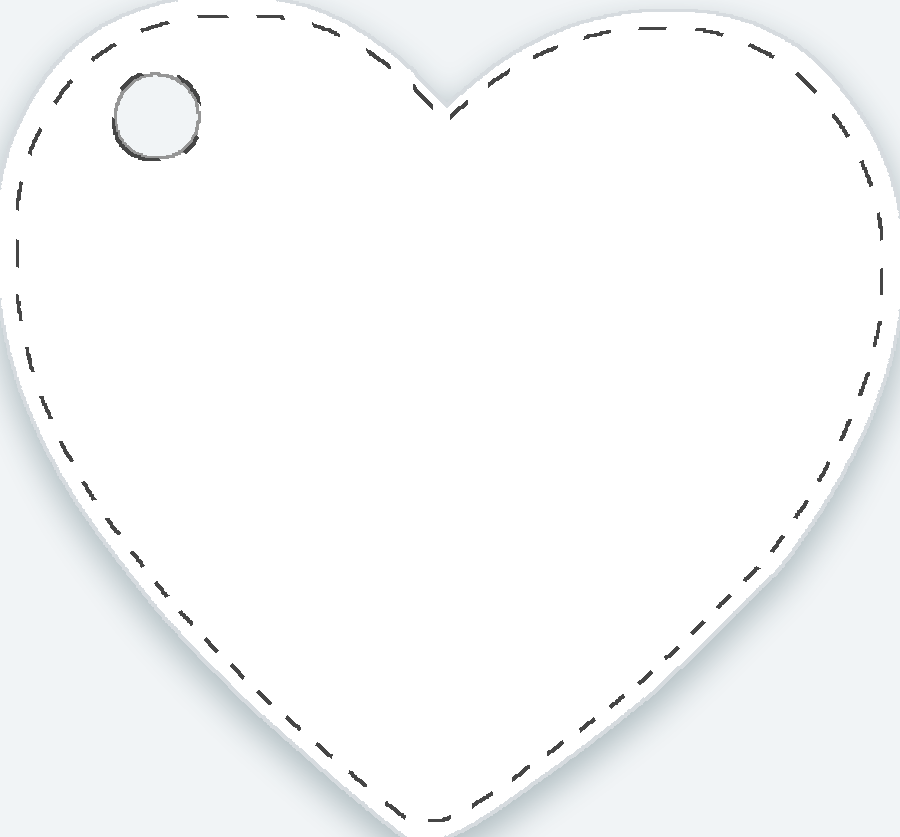
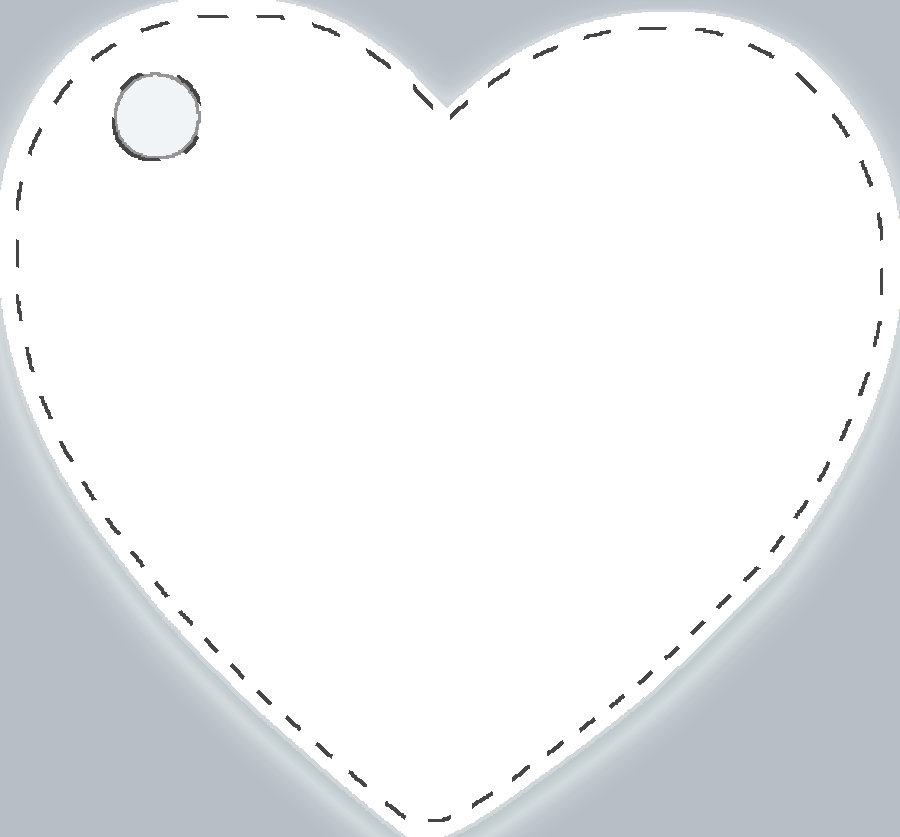
Anteprima: zoom contenuto, sfondo grigio, puzzle A4/A3 e tele rifinite
Anteprima del configuratore
- Lo zoom non fa più uscire il prodotto sopra pannelli e pulsanti:
  l'area dell'anteprima taglia quello che sborda (anche su computer).
- Sfondo sempre grigio medio (--preview-bg), anche su smartphone, così
  le sagome bianche (calamita, cuori, portachiavi) si vedono.
- Maschere delle sagome ricolorate con lo stesso grigio; per cuori e
  portachiavi il bordo sfuma senza aloni chiari.
- Le immagini delle sagome hanno ?v= per non usare quelle vecchie in
  cache; le miniature del carrello delle sagome hanno lo stesso grigio.

Puzzle
- A4 e A3 hanno ciascuno la propria sagoma, presa dalle foto
  "puzzle A4 42 tasselli" e "puzzle A3 130 tasselli", con la cornice
  intorno all'area di stampa come nella home.
- Numero di tasselli nei testi (configuratore, mobile, home).

Tele
- Ritaglio rifatto con bordi lisci (curva per ogni lato) e stampa
  d'esempio fino al bordo: niente più righe storte sui lati.

diff --git a/script.js b/script.js
@@ -1518,12 +1518,13 @@ Object.assign(products, {
         price: null // DA DEFINIRE
     },
 
-    /* PUZZLE: le linee di taglio sono nella sagoma, sopra il disegno */
+    /* PUZZLE: ogni formato ha la sua sagoma (foto del puzzle bianco):
+       linee di taglio sopra il disegno, cornice intorno all’area di stampa */
 
     "puzzle-a4": {
         title: "Puzzle A4",
         name: "Puzzle personalizzato",
-        dimensions: "Formato: A4, 21x29,7 cm",
+        dimensions: "Formato: A4, 21x29,7 cm, 42 tasselli grandi",
         print: "Area di stampa: 21x29,7 cm",
         printInfo: "Area stampabile 21x29,7 cm",
         printCm: { width: 21, height: 29.7 },
@@ -1531,14 +1532,14 @@ Object.assign(products, {
         orientable: true,
         marginNote: "none",
         layout: "puzzle",
-        shape: "puzzle",
+        shape: "puzzle-a4",
         price: null // DA DEFINIRE
     },
 
     "puzzle-a3": {
         title: "Puzzle A3",
         name: "Puzzle personalizzato",
-        dimensions: "Formato: A3, 29,7x42 cm",
+        dimensions: "Formato: A3, 29,7x42 cm, 130 tasselli grandi",
         print: "Area di stampa: 29,7x42 cm",
         printInfo: "Area stampabile 29,7x42 cm",
         printCm: { width: 29.7, height: 42 },
@@ -1546,7 +1547,7 @@ Object.assign(products, {
         orientable: true,
         marginNote: "none",
         layout: "puzzle",
-        shape: "puzzle",
+        shape: "puzzle-a3",
         price: null // DA DEFINIRE
     },
 
@@ -6293,10 +6294,16 @@ const GENERIC_PREVIEW_PADDING = {
     tile: 0.025,
     mousepad: 0.02,
     slate: 0.12,  // uguale al margine delle immagini assets/products/slate-*-body.png
-    puzzle: 0.03, // uguale al margine delle immagini assets/products/puzzle*-body.png
+    puzzle: 0.05, // uguale al margine delle immagini assets/products/puzzle-*-body.png (cornice)
     magnet: 0.06, // uguale al margine delle immagini assets/products/magnet-*-body.png
     "keychain-mdf": 0.12 // uguale al margine delle immagini keychain-*-body.png
 };
+
+/*
+    Versione delle immagini delle sagome (assets/products): va cambiata
+    quando si rifanno, così i browser non usano quelle vecchie in cache.
+*/
+const SHAPE_ASSETS_VERSION = "2";
 
 /* Margine dell'immagine dell'anello (keychain-*-ring.png) rispetto all'area di stampa */
 const KEYCHAIN_RING_PAD = 0.75;
@@ -6377,10 +6384,10 @@ function applyGenericProductPreview(product) {
                 : product.shape;
 
         productPreview.style.backgroundImage =
-            `url("${getAssetUrl(`assets/products/${shapeName}-body.png`)}")`;
+            `url("${getAssetUrl(`assets/products/${shapeName}-body.png?v=${SHAPE_ASSETS_VERSION}`)}")`;
 
         printShapeMask.style.backgroundImage =
-            `url("${getAssetUrl(`assets/products/${shapeName}-mask.png`)}")`;
+            `url("${getAssetUrl(`assets/products/${shapeName}-mask.png?v=${SHAPE_ASSETS_VERSION}`)}")`;
 
         /* Portachiavi: anello e fascetta in un livello sopra, più grande */
         if (product.layout === "keychain-mdf") {
@@ -6390,7 +6397,7 @@ function applyGenericProductPreview(product) {
 
             productPreview.style.setProperty(
                 "--ring-image",
-                `url("${getAssetUrl(`assets/products/${shapeName}-ring.png`)}")`
+                `url("${getAssetUrl(`assets/products/${shapeName}-ring.png?v=${SHAPE_ASSETS_VERSION}`)}")`
             );
 
             productPreview.style.setProperty(
@@ -10357,12 +10364,25 @@ async function captureCurrentProductPreview() {
         );
 
 
+        /*
+            Sagome (cuori, portachiavi, ardesie...): fuori dalla forma
+            le maschere hanno il grigio dell'anteprima, quindi anche il
+            fondo della miniatura è grigio, senza riquadri chiari.
+        */
+        const thumbnailBackground =
+            products[currentProduct] &&
+            products[currentProduct].shape
+                ? getComputedStyle(document.documentElement)
+                    .getPropertyValue("--preview-bg")
+                    .trim() || null
+                : null;
+
         const canvas =
             await html2canvas(
                 productPreview,
                 {
                     backgroundColor:
-                        null,
+                        thumbnailBackground,
 
                     scale: 1,
 

diff --git a/style.css b/style.css
@@ -207,7 +207,7 @@ input[type="file"] {
     display: flex;
     justify-content: center;
     align-items: center;
-    background: #eeeeee;
+    background: var(--preview-bg);
     border-radius: 14px;
     padding: 30px;
     position: relative;
@@ -2274,7 +2274,7 @@ nav a {
 
     /* Pagina editor */
     body {
-        background: #eeeeee;
+        background: var(--preview-bg);
     }
 
 
@@ -2300,7 +2300,7 @@ nav a {
         border-radius: 0;
         box-shadow: none;
 
-        background: #eeeeee;
+        background: var(--preview-bg);
 
         position: relative;
         top: auto;
@@ -2327,7 +2327,7 @@ nav a {
 
         border-radius: 0;
 
-        background: #eeeeee;
+        background: var(--preview-bg);
 
         display: flex;
         align-items: center;
@@ -5024,6 +5024,10 @@ nav a {
    ===================================================================== */
 
 :root {
+    /* Sfondo dell’anteprima: grigio medio, uguale al fondo delle sagome
+       (assets/products/*-mask.png), così i prodotti bianchi si vedono */
+    --preview-bg: #b8bec6;
+
     /* Colori del marchio SubliMaMi (presi dal logo) */
     --brand: #00b0c0;            /* turchese logo: decorazioni, bordi attivi */
     --brand-strong: #00808e;     /* turchese scuro: testo e pulsanti (contrasto AA) */
@@ -5748,10 +5752,10 @@ textarea {
 
     /* Solo sfondo: dimensioni e padding dell'area restano quelli originali */
     .preview-area {
-        background-color: #f1f4f6;
-        background-image: radial-gradient(#dde3e8 1.1px, transparent 1.1px);
-        background-size: 18px 18px;
+        background-color: var(--preview-bg);
         border: 1px solid var(--line);
+        /* lo zoom non deve far uscire il prodotto sopra i pannelli */
+        overflow: hidden;
     }
 
     .preview-toolbar {
@@ -6145,9 +6149,9 @@ a.logo {
 }
 
 /* Cuscini a cuore: lo sfondo dell'anteprima deve avere lo stesso colore
-   della sagoma (#f1f4f6), anche su smartphone */
+   della sagoma (--preview-bg), anche su smartphone */
 .preview-area:has(.generic-heart) {
-    background-color: #f1f4f6;
+    background-color: var(--preview-bg);
 }
 
 /* Nota: la foto esce dall'area di stampa */
@@ -6241,7 +6245,7 @@ a.logo {
 }
 
 .preview-area:has(.generic-keychain-mdf) {
-    background-color: #f1f4f6;
+    background-color: var(--preview-bg);
 }
 
 /* Ardesie: pietra, bordo e supporti sono nelle foto (corpo e maschera) */
@@ -6265,13 +6269,13 @@ a.logo {
 
 .preview-area:has(.generic-slate),
 .preview-area:has(.generic-magnet) {
-    background-color: #f1f4f6;
+    background-color: var(--preview-bg);
 }
 
 /* Su smartphone anche il fondo della pagina segue lo stesso colore */
 @media (max-width: 600px) {
     body:has(.generic-heart, .generic-keychain-mdf, .generic-slate, .generic-magnet) {
-        background-color: #f1f4f6;
+        background-color: var(--preview-bg);
     }
 }
 

diff --git a/personalizza.html b/personalizza.html
@@ -10,7 +10,7 @@
     <link rel="preconnect" href="https://fonts.gstatic.com" crossorigin>
     <link rel="stylesheet" href="https://fonts.googleapis.com/css2?family=Nunito:wght@400;600;700;800&display=swap">
 
-    <link rel="stylesheet" href="style.css?v=67fd6e24e7ab">
+    <link rel="stylesheet" href="style.css?v=c0be18cadf3b">
 </head>
 
 <body>
@@ -2038,7 +2038,7 @@
 
             <span class="mobile-product-option-text">
                 <strong>Puzzle A4</strong>
-                <small>21 × 29,7 cm, verticale o orizzontale</small>
+                <small>21 × 29,7 cm, 42 tasselli</small>
             </span>
 
             <span class="mobile-product-arrow">›</span>
@@ -2054,7 +2054,7 @@
 
             <span class="mobile-product-option-text">
                 <strong>Puzzle A3</strong>
-                <small>29,7 × 42 cm, verticale o orizzontale</small>
+                <small>29,7 × 42 cm, 130 tasselli</small>
             </span>
 
             <span class="mobile-product-arrow">›</span>
@@ -2875,7 +2875,7 @@
 -->
 <script
     src="storage.js?v=d50ff04e43df"
-    data-app-src="script.js?v=b77563a622cb">
+    data-app-src="script.js?v=28464f786f4f">
 </script>
 
 </body>

diff --git a/index.html b/index.html
@@ -337,7 +337,7 @@
                         </a>
                         <div class="product-card-body">
                             <h3>Puzzle</h3>
-                            <p>Formato A4 o A3, in verticale o in orizzontale.</p>
+                            <p>A4 da 42 tasselli o A3 da 130, in verticale o in orizzontale.</p>
                             <div class="photo-formats" role="group" aria-label="Formato del puzzle">
                                 <button type="button" class="photo-format" aria-pressed="true" data-prodotto="puzzle-a4" data-foto="assets/home/puzzle-a4-foto.jpg" data-scritta="assets/home/puzzle-a4-scritta.jpg" data-alt="Puzzle A4 stampato con un arcobaleno e la scritta Casa dolce casa">A4</button>
                                 <button type="button" class="photo-format" aria-pressed="false" data-prodotto="puzzle-a3" data-foto="assets/home/puzzle-a3-foto.jpg" data-scritta="assets/home/puzzle-a3-scritta.jpg" data-alt="Puzzle A3 stampato con la foto di una famiglia davanti all'albero di Natale">A3</button>
